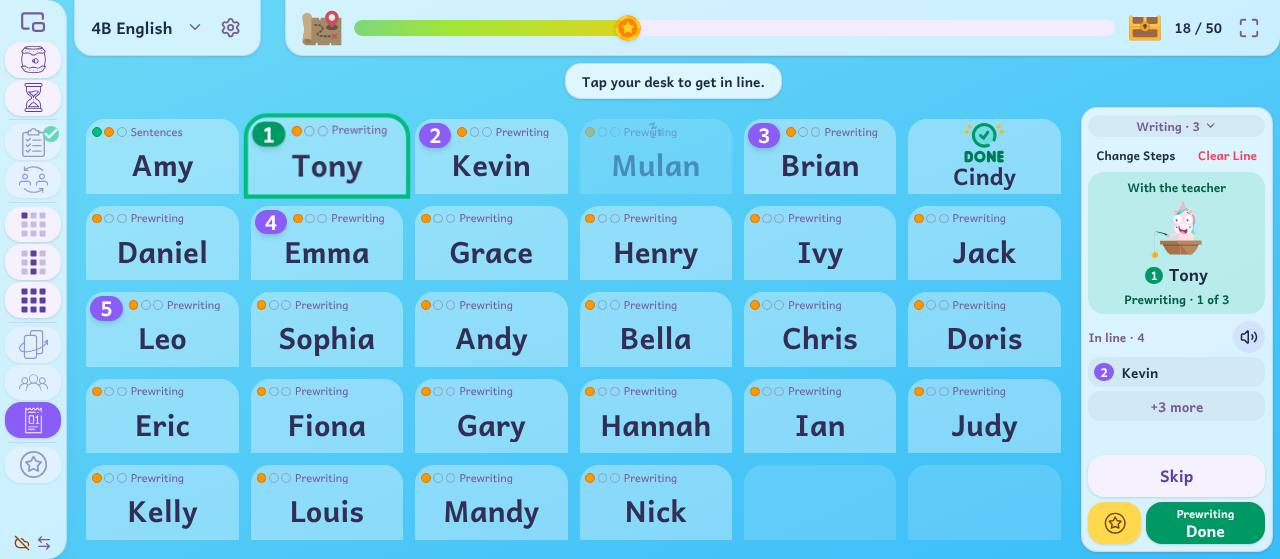
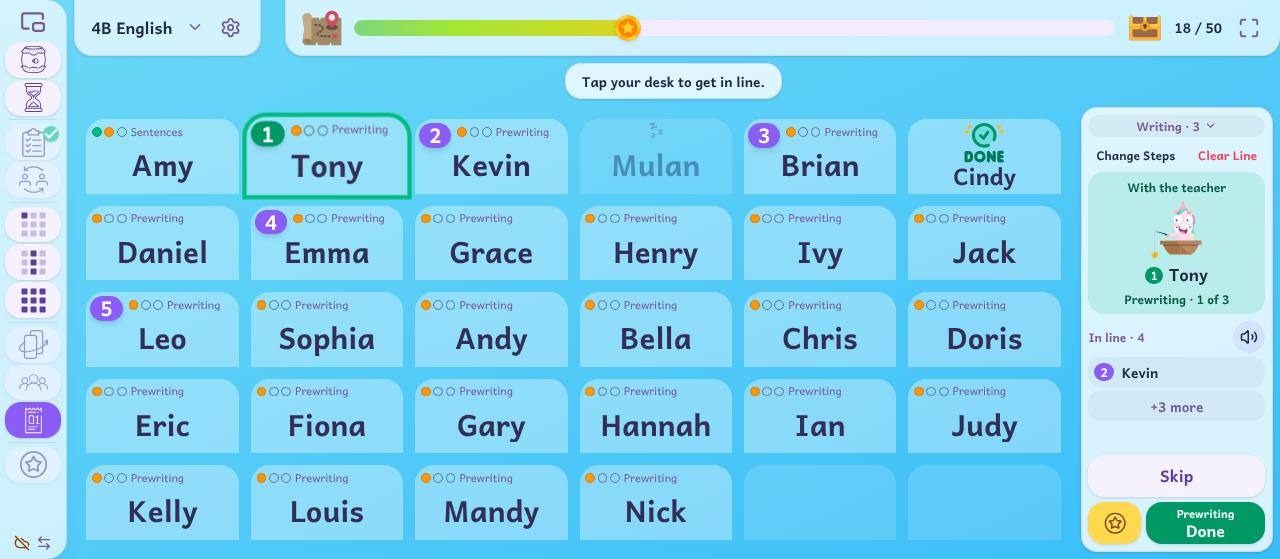
The Line: dots on the desks with no frame, Change Steps and Clear Line at the top
The steps' dots and name sit on the desk on their own, with no rounded box behind
them; the hollow dots are a shade darker so they still read, and an away student's
desk shows no dots (the zzz is there). Change Steps and Clear Line are at the top
of the column, under the line's name and above With the teacher.

Claude-Session: https://claude.ai/code/session_01TiYZ2uAj6XdVjvg33BUoxY

Changed region(s): [[0.1875, 0.1825, 0.3438, 0.3649], [0.4375, 0.2129, 0.4688, 0.2433]]

diff --git a/src/components/Desk.tsx b/src/components/Desk.tsx
@@ -178,7 +178,7 @@ export function Desk({
                   {linePlace.place}
                 </div>
               )}
-              {lineSteps && (
+              {lineSteps && !absent && (
                 // The steps of the task checked so far (●●○○○): read from across the room without
                 // reading a word, and by the teacher as where everyone is. Green for a step done, amber
                 // for the one they are working on, hollow for one not reached yet (2026-10-16, the
@@ -202,7 +202,7 @@ export function Desk({
                           ? 'border-emerald-600 bg-emerald-500'
                           : i === lineSteps.checked
                             ? 'border-amber-600 bg-amber-500'
-                            : 'border-slate-400 bg-transparent',
+                            : 'border-slate-500 bg-transparent dark:border-slate-400',
                       )}
                     />
                   ))}

diff --git a/DECISIONS.md b/DECISIONS.md
@@ -223,7 +223,7 @@ Built or tried, and moved here from Next up (2026-10-12) so that Next up is only
   - **Settings and Swap Seats stand down during a group activity.** Both rearrange the class underneath a running activity, and Swap Seats acts on desks that are behind the cards. Swap Seats is out whenever the cards are up, flip cards included (2026-10-03: it acts on the desks, so it is only for the seating chart); Settings goes out when the board is locked, which is when students are the ones standing at it.
   - **Lock** is for students coming up to the board. It freezes what would destroy work: moving a name, New Groups, Shuffle, Exit and the side panel's button. **Points and status stay live**, because awarding a point for being on task mid activity is normal and unlocking to do it would be backwards. It is a courtesy lock, not a PIN.
 
-- **The Line: a doctor's office for checking work** (2026-10-15, the teacher, from his writing class, where students finish a step of independent work and need it checked, and he doesn't want a crowd at his desk; tried as a preview, "Line Preview", and live the same day: "almost perfect"). **For any assignment, not only writing** (his call: the five writing steps would make it his tool only), so it says nothing about what the work is, and **asks no reason** for being in line: one tap, as a point needs none. **Line** on the rail, after Group Activity, with the teacher's own icon (a numbered ticket, Flaticon, its extra outline taken off so it weighs what the other icons do; children know a take-a-number ticket from the bank or a clinic). **Children**: "Tap your desk to get in line." above the desks; one tap on their own desk puts their place in line on it, big enough to read from their seat and counting down as the line moves, and their name in the line, with a soft pop; into an empty line they go straight to the teacher. **The one with the teacher is number 1 and keeps it** (the teacher's change after the preview) until Done, Skip or back to their seat, ringed in green; the next is 2. A tap on their desk again (or the wrong desk), the one with the teacher included (2026-10-18, the teacher), asks "Kevin, get out of line?" (**Get out** / **Stay in line**, both waiting 0.7 s, a tap outside meaning stay); the board's second touch on a desk that just joined asks nothing, and nor does a desk tapped as the window closes. Absent students can't join. **The column, on the right of the desks whichever side the rail is on** (he sits with the board behind him, at its right, and needs his buttons without standing): **With the teacher**, the picture, the 1 and the name big for the class; **In line**, the names in order with the desks' numbers, as many as fit and then "+3 more" (it never scrolls; every number is on its desk); and at the bottom, where a seated hand lands, **Skip** (to the back of the line: whether they weren't ready or have something to fix, it gives them time, and children know the rule), **★** and **Done**, and **Clear Line** under them, which asks first. Done and Skip ignore a second touch for 0.7 s, or one touch would finish two students. **Done means the work is finished** (the teacher's change after the preview; with steps, the last step's Done, below): **the teacher's Done picture** (a tick in a circle with sparks, and DONE) takes the place of the student's avatar or photo, or sits above the name on a desk with no picture, coloured green with gold sparks over a faint green disc (lighter in Dark and Chalkboard); **a small celebration at their desk**, eight little gold stars bursting out and the picture popping in, with a quick bright run of notes, small beside the class goal's; and the next one called with a soft "ding-dong" and their desk ringed in green, swelling three times and then still. A Done desk tapped again joins the line with the next piece of work, and Done gives way to the number. Skip and Get out are never done. **Seat went**: a tap on a name in the line asks the same "get out of line?". **Points while it is open** (his ask): the column's ★ gives the student with him a star, in every way of running points (none with No Points), and in the participation record; the rail's star, Pick All and the pickers still work; only a desk tapped by hand can't be picked for a point, since that tap is how children get in line, so to star one child at their desk the teacher closes the line a moment, which loses nobody's place. **Kept with the class** (`line`: who is with the teacher, who waits, who is done; `lib/line.ts`), so a refresh keeps it and a second screen shows it; **tomorrow starts empty** (a date, not a timer); **Clear Line** empties it and takes the Done marks off, for the next activity; closed, the rail's button shows how many are still in line, and the desks show nothing of it. While it is open Swap Seats, Attendance, Flip Cards and Group Activity wait. The desks are about a sixth narrower while it is open (186px to 152px on his board). **Steps** (2026-10-15, the teacher: a writing lesson has five steps, each checked, and one Done made a desk say Done while its student still had work to do). **"How many steps?"** (1 to 6) comes up as a fresh line opens (nobody in line, nothing checked today), as Get Ready!'s "How long?" does, with the line "How many times will you check each student's work?"; the class keeps its answer (`lineSteps`), outlined, and **Steps: 5** at the top of the column asks again. Each Done checks the step the student brought, the button saying which (**Step 3 Done**, then **All Done** on the last), and the desk shows the steps checked as **dots** (●●○○○) in its corner, readable without words, the whole class's progress at a glance; All Done is the Done picture and the celebration, an earlier step a soft pop. One step is the Line as it was. **Change Steps** (the teacher's idea, in place of tappable dots on the card and an Undo): on, a tap on any desk, or on the student with the teacher, moves that student a step, through Done and back to none, and the line above the desks says "Tap a desk to change its step."; tapped again, off. For two or three steps brought at once, a Done pressed by mistake, a student who finished early, or one checked at their seat; a soft tick, no celebration, and a second touch on the same desk within 0.7 s is ignored. Kept with the line (`checks`, steps checked per student), cleared with it. A setting in Class Settings and a second button (Next Step and All Done) were weighed first; the question at the start is where the teacher knows the answer. **Saved lines** (2026-10-16, the teacher: a writing project runs over several lessons, and a name for each step helps). **Every line is named, with its steps** (the teacher, after trying it: no generic line), so **Start the Line** (it was "How many steps?") lists the class's lines, **four at most**, one to a row: a tap on the name starts it (the one in use outlined, its steps listed under its name), with **Edit** and **Delete** beside it in words, where a teacher looks for them (a pencil alone wasn't found), Delete asking once in the row; and **New Line** under them. A class with no lines opens straight on New Line. It comes up as a fresh line opens and the first time each day with nobody in line. New Line and Edit: a name (20 letters), the number of steps with − and +, and each step's name (optional, **12 letters at most**: Prewriting, Sentences, Paragraphs, Publishing, Illustrating), then Save and Start. Names are typed, as saved groups' are (a board brings up its own keyboard, and a line is mostly set up ahead at a laptop). **A line keeps where everyone is in its steps from lesson to lesson** (`savedLines`, each with its `checks`; `lineSavedAs` the one in use): the queue empties at the end of the day as ever, but tomorrow's Writing carries on, and switching to another line and back loses nothing. Deleting the line in use leaves today's Line running with its steps, unnamed. The column's top button names the line ("Writing · 5", with an arrow, since it opens the list), the card with the teacher and Done name the step ("Sentences · 2 of 5", Sentences over Done), and Clear Line on a saved line says everyone's steps in it start again. **While the Line is open the desks show names only** (the teacher's idea): the picture's room goes to the names, the one with the teacher has their picture big in the column, and a finished desk still shows Done big where the picture was. **The dots** (the teacher): **green** for a step done, **amber** for the step they are working on, **hollow** for steps not reached yet; a line with named steps shows every seated student's dots from the start, a line without names once a step is checked. **The step's name sits beside the dots, small, not bold and in a quiet grey** (the teacher, on his board: under the name, bold and amber, thirty of them were distracting, glared in Dark, and covered a homeroom number); on a desk too narrow for both (a big class on a small screen) it goes under the dots rather than being cut. **A student in line keeps their dots and step beside their number** (the teacher: they disappeared under it), so a child waiting still sees which step they brought; with the Line's marks on the desks the names sit a little lower, under them. Checked with four lines of 20-letter names and six 12-letter steps: Start the Line and the editor fit with nothing to scroll at 1024x500, 1280x559 and 1920x1080, in Elementary and Comic Book, and "Proofreading" fits whole on the narrowest desk of a class of 35 (the walkthrough's "saved lines fit"). **A speaker beside "In line" turns its sounds off** (the pop, the ding-dong and Done's notes, all above 400Hz) for a quiet writing lesson, kept with the class (`lineSilent`) until tapped back on, as Get Ready!'s speaker on "How long?" is: a switch in Class Settings' Tools was tried first and ran Tools past the window's edge at 1024x500 and on his board, whose two columns had no room for another row. The tour has the Line's button on the board and a part of its own. Checked at every size from 1024x500 to 2560x1300, the rail on either side and every theme, with nothing scrolling (the walkthrough's "the line" and "nothing scrolls").
+- **The Line: a doctor's office for checking work** (2026-10-15, the teacher, from his writing class, where students finish a step of independent work and need it checked, and he doesn't want a crowd at his desk; tried as a preview, "Line Preview", and live the same day: "almost perfect"). **For any assignment, not only writing** (his call: the five writing steps would make it his tool only), so it says nothing about what the work is, and **asks no reason** for being in line: one tap, as a point needs none. **Line** on the rail, after Group Activity, with the teacher's own icon (a numbered ticket, Flaticon, its extra outline taken off so it weighs what the other icons do; children know a take-a-number ticket from the bank or a clinic). **Children**: "Tap your desk to get in line." above the desks; one tap on their own desk puts their place in line on it, big enough to read from their seat and counting down as the line moves, and their name in the line, with a soft pop; into an empty line they go straight to the teacher. **The one with the teacher is number 1 and keeps it** (the teacher's change after the preview) until Done, Skip or back to their seat, ringed in green; the next is 2. A tap on their desk again (or the wrong desk), the one with the teacher included (2026-10-18, the teacher), asks "Kevin, get out of line?" (**Get out** / **Stay in line**, both waiting 0.7 s, a tap outside meaning stay); the board's second touch on a desk that just joined asks nothing, and nor does a desk tapped as the window closes. Absent students can't join. **The column, on the right of the desks whichever side the rail is on** (he sits with the board behind him, at its right, and needs his buttons without standing): **With the teacher**, the picture, the 1 and the name big for the class; **In line**, the names in order with the desks' numbers, as many as fit and then "+3 more" (it never scrolls; every number is on its desk); and at the bottom, where a seated hand lands, **Skip** (to the back of the line: whether they weren't ready or have something to fix, it gives them time, and children know the rule), **★** and **Done**, and **Clear Line**, which asks first, at the top with **Change Steps**, under the line's name and above With the teacher (2026-10-18, the teacher). Done and Skip ignore a second touch for 0.7 s, or one touch would finish two students. **Done means the work is finished** (the teacher's change after the preview; with steps, the last step's Done, below): **the teacher's Done picture** (a tick in a circle with sparks, and DONE) takes the place of the student's avatar or photo, or sits above the name on a desk with no picture, coloured green with gold sparks over a faint green disc (lighter in Dark and Chalkboard); **a small celebration at their desk**, eight little gold stars bursting out and the picture popping in, with a quick bright run of notes, small beside the class goal's; and the next one called with a soft "ding-dong" and their desk ringed in green, swelling three times and then still. A Done desk tapped again joins the line with the next piece of work, and Done gives way to the number. Skip and Get out are never done. **Seat went**: a tap on a name in the line asks the same "get out of line?". **Points while it is open** (his ask): the column's ★ gives the student with him a star, in every way of running points (none with No Points), and in the participation record; the rail's star, Pick All and the pickers still work; only a desk tapped by hand can't be picked for a point, since that tap is how children get in line, so to star one child at their desk the teacher closes the line a moment, which loses nobody's place. **Kept with the class** (`line`: who is with the teacher, who waits, who is done; `lib/line.ts`), so a refresh keeps it and a second screen shows it; **tomorrow starts empty** (a date, not a timer); **Clear Line** empties it and takes the Done marks off, for the next activity; closed, the rail's button shows how many are still in line, and the desks show nothing of it. While it is open Swap Seats, Attendance, Flip Cards and Group Activity wait. The desks are about a sixth narrower while it is open (186px to 152px on his board). **Steps** (2026-10-15, the teacher: a writing lesson has five steps, each checked, and one Done made a desk say Done while its student still had work to do). **"How many steps?"** (1 to 6) comes up as a fresh line opens (nobody in line, nothing checked today), as Get Ready!'s "How long?" does, with the line "How many times will you check each student's work?"; the class keeps its answer (`lineSteps`), outlined, and **Steps: 5** at the top of the column asks again. Each Done checks the step the student brought, the button saying which (**Step 3 Done**, then **All Done** on the last), and the desk shows the steps checked as **dots** (●●○○○) in its corner, readable without words, the whole class's progress at a glance; All Done is the Done picture and the celebration, an earlier step a soft pop. One step is the Line as it was. **Change Steps** (the teacher's idea, in place of tappable dots on the card and an Undo): on, a tap on any desk, or on the student with the teacher, moves that student a step, through Done and back to none, and the line above the desks says "Tap a desk to change its step."; tapped again, off. For two or three steps brought at once, a Done pressed by mistake, a student who finished early, or one checked at their seat; a soft tick, no celebration, and a second touch on the same desk within 0.7 s is ignored. Kept with the line (`checks`, steps checked per student), cleared with it. A setting in Class Settings and a second button (Next Step and All Done) were weighed first; the question at the start is where the teacher knows the answer. **Saved lines** (2026-10-16, the teacher: a writing project runs over several lessons, and a name for each step helps). **Every line is named, with its steps** (the teacher, after trying it: no generic line), so **Start the Line** (it was "How many steps?") lists the class's lines, **four at most**, one to a row: a tap on the name starts it (the one in use outlined, its steps listed under its name), with **Edit** and **Delete** beside it in words, where a teacher looks for them (a pencil alone wasn't found), Delete asking once in the row; and **New Line** under them. A class with no lines opens straight on New Line. It comes up as a fresh line opens and the first time each day with nobody in line. New Line and Edit: a name (20 letters), the number of steps with − and +, and each step's name (optional, **12 letters at most**: Prewriting, Sentences, Paragraphs, Publishing, Illustrating), then Save and Start. Names are typed, as saved groups' are (a board brings up its own keyboard, and a line is mostly set up ahead at a laptop). **A line keeps where everyone is in its steps from lesson to lesson** (`savedLines`, each with its `checks`; `lineSavedAs` the one in use): the queue empties at the end of the day as ever, but tomorrow's Writing carries on, and switching to another line and back loses nothing. Deleting the line in use leaves today's Line running with its steps, unnamed. The column's top button names the line ("Writing · 5", with an arrow, since it opens the list), the card with the teacher and Done name the step ("Sentences · 2 of 5", Sentences over Done), and Clear Line on a saved line says everyone's steps in it start again. **While the Line is open the desks show names only** (the teacher's idea): the picture's room goes to the names, the one with the teacher has their picture big in the column, and a finished desk still shows Done big where the picture was. **The dots** (the teacher): **green** for a step done, **amber** for the step they are working on, **hollow** for steps not reached yet; a line with named steps shows every seated student's dots from the start, a line without names once a step is checked. **The step's name sits beside the dots, small, not bold and in a quiet grey** (the teacher, on his board: under the name, bold and amber, thirty of them were distracting, glared in Dark, and covered a homeroom number); on a desk too narrow for both (a big class on a small screen) it goes under the dots rather than being cut. **No frame round them** (2026-10-18, the teacher): just the circles and the name on the desk, the hollow ones a shade darker so they still read; an away student's desk shows no dots, since the zzz is there. **A student in line keeps their dots and step beside their number** (the teacher: they disappeared under it), so a child waiting still sees which step they brought; with the Line's marks on the desks the names sit a little lower, under them. Checked with four lines of 20-letter names and six 12-letter steps: Start the Line and the editor fit with nothing to scroll at 1024x500, 1280x559 and 1920x1080, in Elementary and Comic Book, and "Proofreading" fits whole on the narrowest desk of a class of 35 (the walkthrough's "saved lines fit"). **A speaker beside "In line" turns its sounds off** (the pop, the ding-dong and Done's notes, all above 400Hz) for a quiet writing lesson, kept with the class (`lineSilent`) until tapped back on, as Get Ready!'s speaker on "How long?" is: a switch in Class Settings' Tools was tried first and ran Tools past the window's edge at 1024x500 and on his board, whose two columns had no room for another row. The tour has the Line's button on the board and a part of its own. Checked at every size from 1024x500 to 2560x1300, the rail on either side and every theme, with nothing scrolling (the walkthrough's "the line" and "nothing scrolls").
 - **Deployment**: pushes to `main` auto-deploy to https://a102032.github.io/seating/. The workflow curls the published URL afterwards and fails if it isn't serving the built bundle — Pages served the repo's raw `index.html` for several runs while every step reported green. `build-artifact.py` bundles a standalone copy for the Claude artifact preview.
 
 ## Known loose ends
